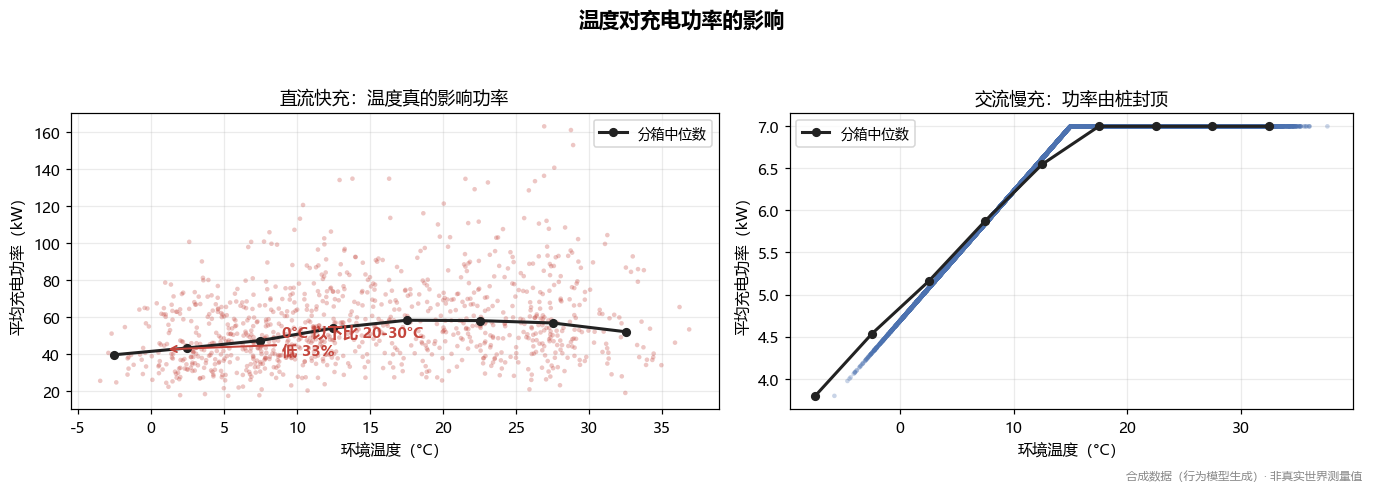
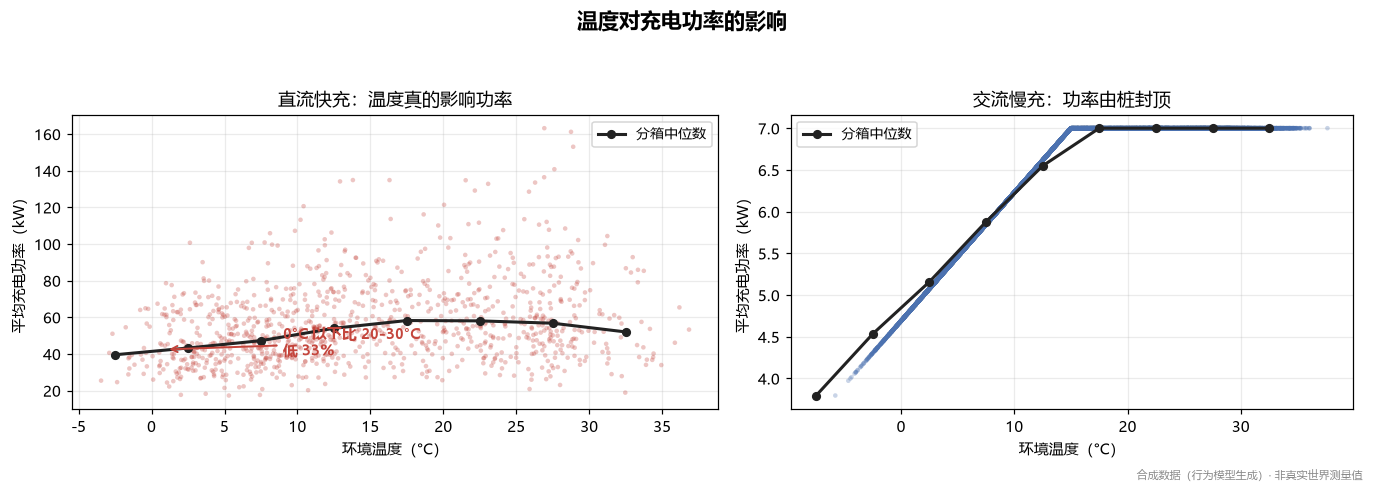
环境配置：依赖改用项目内 vendor/，终端自动注入 PYTHONPATH
问题：这台机器上有 7 个 Python，PATH 里默认的 D:\python-3.11.1-amd64
只有 numpy，所以直接 `python -m src.analyze` 会报
ModuleNotFoundError: No module named 'pandas'。

措施：
- 依赖装进项目内 vendor/（pandas 3.0.6 / matplotlib 3.11.2 / numpy 2.4.6）
- .vscode/settings.json 用 terminal.integrated.env.windows 注入
  PYTHONPATH=${workspaceFolder}\vendor，新终端开箱即用
- .gitignore 改为显式跟踪 .vscode/settings.json（含解释器与路径约定，
  无敏感信息），vendor/ 仍然忽略
- README 补充环境说明与 vendor/ 重建命令

顺带记录一个坑：往全局 Python 装包会失败，pip 需要写
%APPDATA%\Python\Python311 但被拒绝（WinError 5）；--target 可以绕开。
这不是网络问题——清华镜像下载全部成功，是最后写入阶段被拒。

图表因 matplotlib 3.10.8 -> 3.11.2 重新渲染，已目视确认中文未受影响。
26 个测试在两种 runner 下均通过。

diff --git a/README.md b/README.md
@@ -161,24 +161,38 @@ python scripts/run_tests.py         # 项目自带的 runner，无需 pytest
 
 26 个测试覆盖物理不变量、行为不变量和工程不变量（详见第 5 节）。
 
-### 本机开发环境备注
+### 本机环境说明（依赖为什么在 `vendor/` 里）
 
-开发时使用的解释器（VSCode 里选这个）：
+开发这台机器上有 **7 个不同的 Python**，而 `PATH` 里默认的那个
+（`D:\python-3.11.1-amd64`）只有 `numpy` —— 直接跑会报
+`ModuleNotFoundError: No module named 'pandas'`。
 
-```
-C:\Users\徐鸿基\Desktop\神经网络\.venv3.11.1\Scripts\python.exe
-```
-
-该环境已含 `numpy` / `pandas` / `matplotlib` / `scipy` / `sklearn`。`pytest` 是通过
-`pip install --target vendor pytest` 装在项目内的 `vendor/` 目录（已 gitignore），
-运行时需要 `PYTHONPATH` 指向它：
+解决办法是把依赖装进**项目内的 `vendor/` 目录**，再由
+[`.vscode/settings.json`](.vscode/settings.json) 通过 `PYTHONPATH` 注入：
 
 ```powershell
-$env:PYTHONPATH = "$PWD\vendor"
-python -m pytest tests/ -q
+# 重建 vendor/（约 200 MB，用清华镜像；官方源在国内很慢，不是不通）
+python -m pip install --target vendor `
+    -i https://pypi.tuna.tsinghua.edu.cn/simple `
+    "numpy>=1.24" pandas matplotlib pytest
 ```
 
-如果不想折腾 pytest，直接 `python scripts/run_tests.py` 即可，两者结果一致。
+这样做的好处是**不污染任何全局 Python 环境**，换台机器只要重跑这一条命令。
+`vendor/` 已 gitignore（体积大，且一条命令就能复现）。
+
+> 注：往全局 Python 装会失败，因为 pip 要往 `%APPDATA%\Python\Python311`
+> 写用户级脚本，在没有相应写权限时会被拒绝（`WinError 5`）。`--target` 绕开了这一点。
+
+**用 VSCode**：打开项目后新开一个终端就行，配置会自动生效。若终端是在改配置
+之前开的，关掉重开一个。验证：
+
+```powershell
+python -c "import pandas; print(pandas.__version__)"
+```
+
+**不想用 `vendor/`** 也可以：任何装了 `pandas` + `matplotlib` 的解释器都能跑，
+用 VSCode 右下角切换即可 —— 例如
+`C:\Users\徐鸿基\Desktop\神经网络\.venv3.11.1\Scripts\python.exe` 就是现成的。
 
 ---
 
@@ -310,6 +324,9 @@ charging-insights/
 ├── figures/           生成好的图表（已提交，README 直接引用）
 ├── docs/
 │   └── charging_behavior_sources.md   参数来源汇编（408 行，全部带 URL）
+├── .vscode/
+│   └── settings.json  钉住 PYTHONPATH -> vendor/（已提交，见第 3 节）
+├── vendor/            项目内依赖（已 gitignore，一条命令可重建）
 └── data/raw/          生成的数据（已 gitignore，可复现所以不提交）
 ```
 
